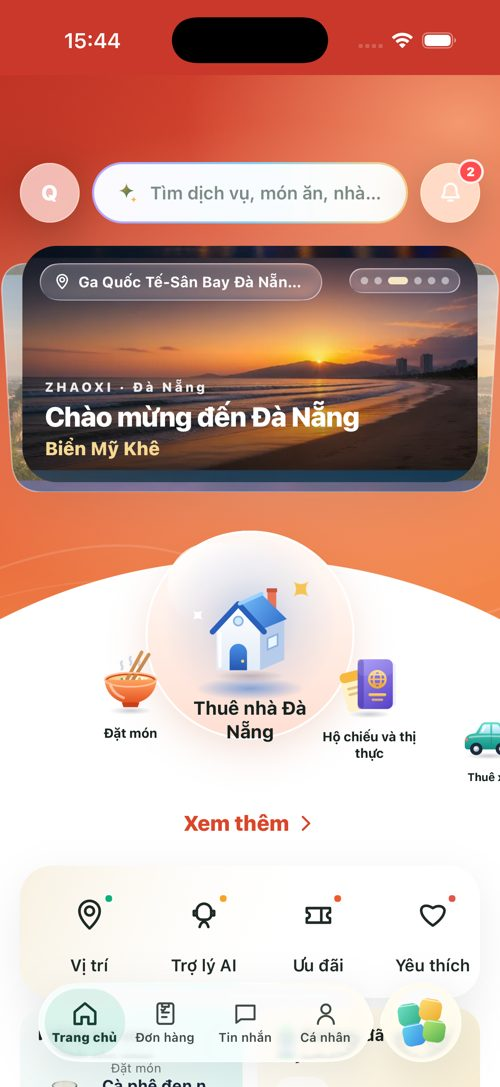
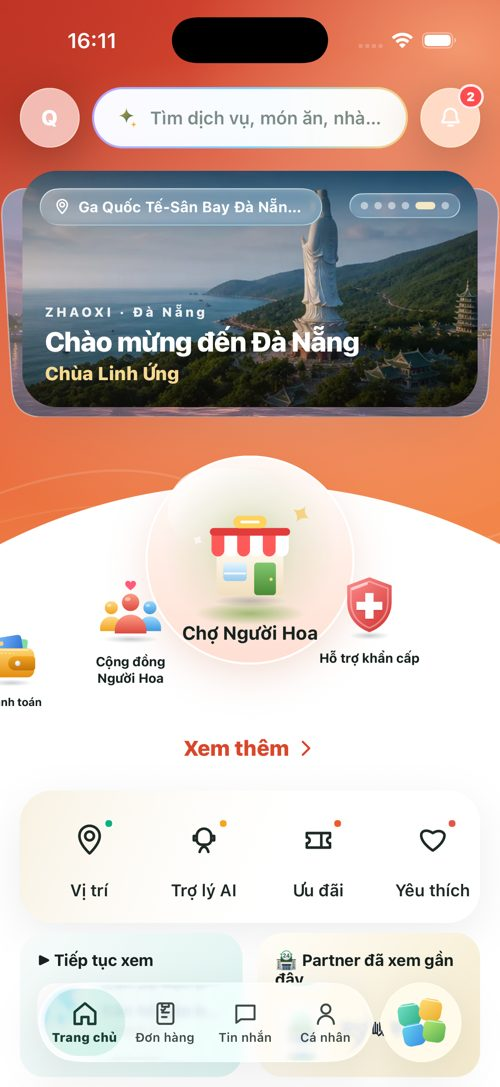
fix(customer-mobile): uniform explore block, dish-shaped shadows, arc snap guard
- Explore coverflow: one uniform white block. Card shadows that the
  ScrollView cut into a grey band are gone; dish photos (cut-out PNGs)
  now cast an iOS shadow along their own outline; caption sits directly
  on white; smaller "Xem tất cả" button; room under the glass tabs so
  their shadow isn't clipped into a line.
- Service arc: the list could come to rest between two items, leaving
  the centred icon off the glass sphere; it now always settles on an item.

diff --git a/frontend/apps/customer-mobile/src/components/explore-coverflow.tsx b/frontend/apps/customer-mobile/src/components/explore-coverflow.tsx
@@ -12,7 +12,8 @@ import { AppImage, GlassFill, ServiceArt, ZxIcon, haptic } from "../ui";
 
 const CARD_W = 210;
 const CARD_H = 280;
-const STEP = CARD_W * 0.78; // cards overlap so the side ones peek out from behind the centre one
+const STEP = CARD_W * 0.78;
+const SHADOW_ROOM = 34; // vertical room so card shadows fade out instead of being cut by the ScrollView // cards overlap so the side ones peek out from behind the centre one
 
 /**
  * "Khám phá thêm" as an immersive coverflow (My Viettel "Giải trí không giới hạn"):
@@ -57,15 +58,15 @@ export function ExploreCoverflow({ items, title, highlight, more, allLabel }: { 
         onScroll={onScroll}
         scrollEventThrottle={16}
         onMomentumScrollEnd={() => haptic.select()}
-        contentContainerStyle={{ paddingHorizontal: pad, alignItems: "center" }}
-        style={{ height: CARD_H + 40 }}
+        contentContainerStyle={{ paddingHorizontal: pad, paddingVertical: SHADOW_ROOM, alignItems: "center" }}
+        style={{ height: CARD_H + SHADOW_ROOM * 2, marginTop: -SHADOW_ROOM - 4, marginBottom: -SHADOW_ROOM + 12 }}
       >
         {list.slice(0, 10).map((item, index) => <FlowCard key={`${item.kind}-${item.id}`} item={item} index={index} x={x} last={index === Math.min(list.length, 10) - 1} />)}
       </Animated.ScrollView>
       <Pressable onPress={() => router.push("/explore")} style={({ pressed }) => [styles.more, pressed && { transform: [{ scale: 0.96 }] }]}>
-        <GlassFill radius={26} tint="rgba(226,72,52,0.92)" />
+        <GlassFill radius={20} tint="rgba(226,72,52,0.92)" />
         <Text style={styles.moreText}>{more}</Text>
-        <ZxIcon name="chevron" size={18} color={colors.white} strokeWidth={2.6} />
+        <ZxIcon name="chevron" size={14} color={colors.white} strokeWidth={2.6} />
       </Pressable>
     </View>
   );
@@ -91,14 +92,18 @@ function FlowCard({ item, index, x, last }: { item: Recommendation; index: numbe
   return (
     <Animated.View style={[{ width: STEP, height: CARD_H, alignItems: "center", marginRight: last ? CARD_W - STEP : 0 }, style]}>
       <Pressable onPress={() => router.push(routeForWebHref(item.href))} style={styles.card}>
-        <View style={styles.cardClip}>
-          <AppImage uri={imageUri(item.imageUrl)} fallbackCode={item.moduleCode} style={StyleSheet.absoluteFill} />
+        <View style={styles.cardClip} />
+        {/* Unclipped and without a background so iOS draws the shadow along the dish's own outline */}
+        <View style={styles.dishShadow} pointerEvents="none">
+          <AppImage uri={imageUri(item.imageUrl)} fallbackCode={item.moduleCode} contentFit="contain" style={styles.dish} />
+        </View>
+        <View style={styles.cardContent} pointerEvents="none">
+
           <View style={styles.badge}>
             <GlassFill radius={14} tint="rgba(255,255,255,0.4)" />
             <ServiceArt code={item.moduleCode} size={22} />
           </View>
           <View style={styles.info}>
-            <GlassFill radius={18} tint="rgba(255,255,255,0.78)" />
             <Text style={styles.cardTitle} numberOfLines={2}>{localizeServiceName(locale, item.title)}</Text>
             {price ? <Text style={styles.cardPrice}>{t.common.from} {price}</Text> : null}
           </View>
@@ -127,15 +132,18 @@ const styles = StyleSheet.create({
   mascot: { position: "absolute", right: 12, top: -46 },
   title: { paddingHorizontal: 22, paddingRight: 104, fontSize: 21, fontWeight: "800", color: "#17221F", letterSpacing: -0.3 },
   highlight: { color: "#E2482F" },
-  tabs: { gap: 10, paddingHorizontal: 16, paddingTop: 16, paddingBottom: 6 },
+  tabs: { gap: 10, paddingHorizontal: 16, paddingTop: 16, paddingBottom: 22 },
   tab: { height: 46, paddingHorizontal: 16, borderRadius: 23, flexDirection: "row", alignItems: "center", gap: 8 },
   tabText: { fontSize: 15, fontWeight: "700", color: "#334155" },
-  card: { width: CARD_W, height: CARD_H, borderRadius: 24, backgroundColor: colors.white, shadowColor: "#0F172A", shadowOpacity: 0.16, shadowRadius: 16, shadowOffset: { width: 0, height: 14 } },
-  cardClip: { flex: 1, borderRadius: 24, overflow: "hidden", backgroundColor: colors.white },
+  card: { width: CARD_W, height: CARD_H, borderRadius: 24, backgroundColor: colors.white },
+  cardClip: { ...StyleSheet.absoluteFill, borderRadius: 24, backgroundColor: colors.white },
+  cardContent: { ...StyleSheet.absoluteFill },
+  dishShadow: { position: "absolute", left: 18, right: 18, top: 40, bottom: 78, shadowColor: "#3B2410", shadowOpacity: 0.32, shadowRadius: 14, shadowOffset: { width: 0, height: 16 } },
+  dish: { width: "100%", height: "100%", backgroundColor: "transparent" },
   badge: { position: "absolute", left: 12, top: 12, width: 38, height: 38, borderRadius: 14, alignItems: "center", justifyContent: "center" },
-  info: { position: "absolute", left: 10, right: 10, bottom: 10, paddingHorizontal: 12, paddingVertical: 10, borderRadius: 18 },
+  info: { position: "absolute", left: 16, right: 16, bottom: 16 },
   cardTitle: { fontSize: 16, fontWeight: "800", color: "#17221F", lineHeight: 20 },
   cardPrice: { marginTop: 3, fontSize: 13, fontWeight: "800", color: colors.priceRose },
-  more: { alignSelf: "center", marginTop: 8, height: 52, paddingHorizontal: 28, borderRadius: 26, flexDirection: "row", alignItems: "center", gap: 6 },
-  moreText: { fontSize: 18, fontWeight: "800", color: colors.white },
+  more: { alignSelf: "center", marginTop: 4, height: 40, paddingHorizontal: 20, borderRadius: 20, flexDirection: "row", alignItems: "center", gap: 4 },
+  moreText: { fontSize: 14, fontWeight: "800", color: colors.white },
 });

diff --git a/frontend/apps/customer-mobile/src/ui/index.tsx b/frontend/apps/customer-mobile/src/ui/index.tsx
@@ -1,6 +1,5 @@
 import { Ionicons } from "@expo/vector-icons";
 import { Image, type ImageProps } from "expo-image";
-import { LinearGradient } from "expo-linear-gradient";
 import { useEffect, useState, type ComponentProps, type ReactNode } from "react";
 import { ActivityIndicator, Pressable, StyleSheet, Text, TextInput, View, type PressableProps, type StyleProp, type TextInputProps, type TextStyle, type ViewStyle } from "react-native";
 import Animated, { Easing, FadeInDown, interpolate, useAnimatedStyle, useSharedValue, withRepeat, withSpring, withTiming } from "react-native-reanimated";
@@ -165,18 +164,14 @@ export function AppImage({ uri, style, fallbackCode, ...props }: Omit<ImageProps
   return <Image source={{ uri }} cachePolicy="memory-disk" transition={200} contentFit="cover" recyclingKey={uri} placeholder={{ blurhash: "L6PZfSi_.AyE_3t7t7R**0o#DgR4" }} style={style} {...props} />;
 }
 
-/** No photo: the 3D service illustration scaled to the frame on a clean white backdrop with a faint neutral halo. */
+/** No photo: the 3D service illustration scaled to the frame on a plain white backdrop. */
 function ArtFallback({ code, style }: { code?: string | null; style?: StyleProp<ViewStyle> }) {
   const [box, setBox] = useState({ w: 0, h: 0 });
   const size = Math.max(28, Math.min(box.w, box.h) * 0.66);
   return (
     <View onLayout={(event) => setBox({ w: event.nativeEvent.layout.width, h: event.nativeEvent.layout.height })} style={[{ alignItems: "center", justifyContent: "center", overflow: "hidden", backgroundColor: colors.white }, style]}>
-      <LinearGradient colors={["#FFFFFF", "#F4F6F8"]} start={{ x: 0, y: 0 }} end={{ x: 0, y: 1 }} style={StyleSheet.absoluteFill} />
       {box.w ? (
-        <>
-          <View style={{ position: "absolute", width: size * 1.25, height: size * 1.25, borderRadius: size, backgroundColor: "#0F172A", opacity: 0.035 }} />
-          <ServiceArt code={code} size={size} />
-        </>
+        <ServiceArt code={code} size={size} />
       ) : null}
     </View>
   );

diff --git a/frontend/apps/customer-mobile/src/components/home-hero.tsx b/frontend/apps/customer-mobile/src/components/home-hero.tsx
@@ -286,6 +286,11 @@ export function ServiceArc({ tiles, onOpen, onPressIn, more }: { tiles: Array<{ 
   const list = useAnimatedRef<Animated.ScrollView>();
   // Open on the second service so both sides of the arc are filled.
   const centre = () => list.current?.scrollTo({ x: ITEM, animated: false });
+  // Snap guard: never rest between two items (the centred icon must sit inside the glass sphere).
+  const settle = (offset: number) => {
+    const target = Math.round(offset / ITEM) * ITEM;
+    if (Math.abs(target - offset) > 0.5) list.current?.scrollTo({ x: target, animated: true });
+  };
   return (
     <View style={styles.arcSection}>
       <View style={[styles.dome, { width: width * 2.2, height: width * 2.2, borderRadius: width * 1.1, left: -width * 0.6 }]} />
@@ -309,7 +314,8 @@ export function ServiceArc({ tiles, onOpen, onPressIn, more }: { tiles: Array<{ 
         scrollEventThrottle={16}
         contentContainerStyle={{ paddingHorizontal: pad, paddingTop: ARC_HEADROOM }}
         style={{ height: 176 + ARC_HEADROOM, marginTop: -ARC_HEADROOM }}
-        onMomentumScrollEnd={() => haptic.select()}
+        onScrollEndDrag={(event) => { if (Math.abs(event.nativeEvent.velocity?.x ?? 0) < 0.05) settle(event.nativeEvent.contentOffset.x); }}
+        onMomentumScrollEnd={(event) => { settle(event.nativeEvent.contentOffset.x); haptic.select(); }}
       >
         {tiles.map((tile, index) => <ArcItem key={tile.code} index={index} x={x} tile={tile} onOpen={onOpen} onPressIn={onPressIn} />)}
       </Animated.ScrollView>
